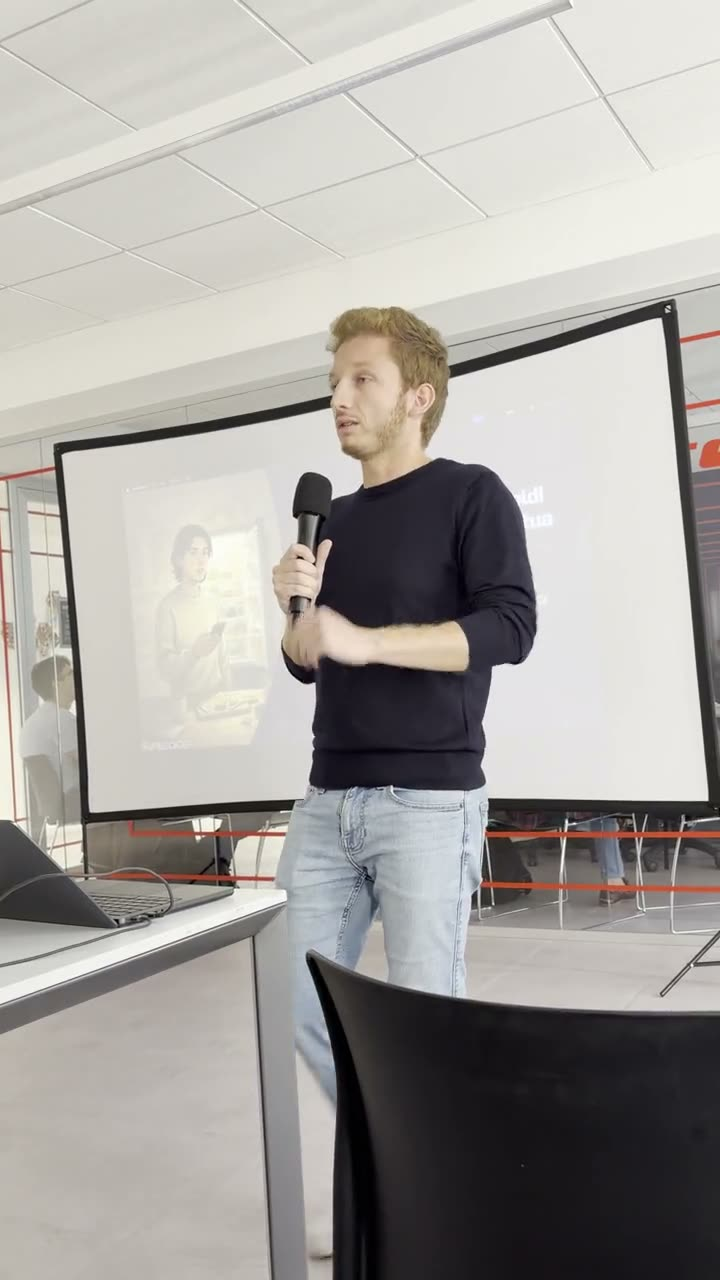
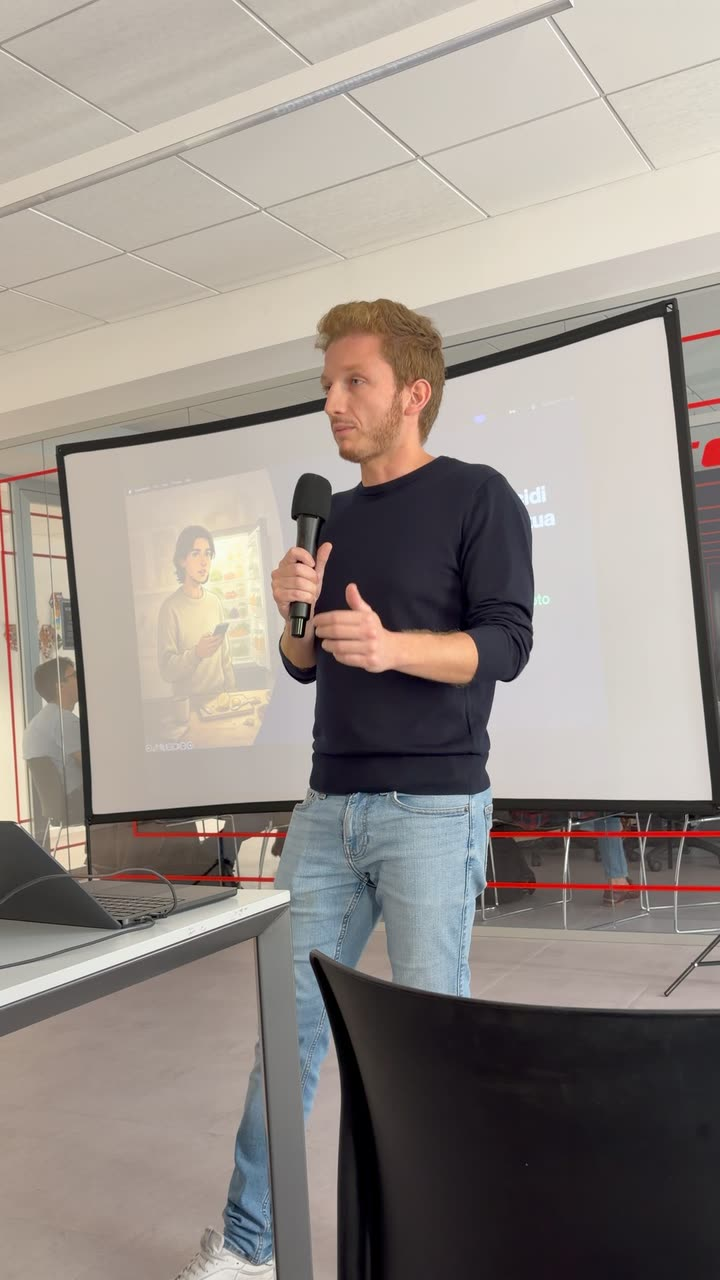
Smoother scrolling on touch devices and DevFest poster for the talk video

diff --git a/assets/js/about.js b/assets/js/about.js
@@ -15,6 +15,9 @@
 	const reduce = window.matchMedia('(prefers-reduced-motion: reduce)').matches;
 	const narrow = window.matchMedia('(max-width: 860px)');
 	const fine = window.matchMedia('(hover: hover) and (pointer: fine)').matches;
+	// Wheel scrolling is smoothed by the script on desktop; everywhere else the browser scrolls natively.
+	const smoothWheel = !!(window.Lenis && fine && !reduce);
+	if (!smoothWheel) root.classList.add('native-scroll');
 	const UI = window.AboutUI, CITIES = window.AboutCities;
 	const $ = (s, c) => (c || document).querySelector(s);
 	const $$ = (s, c) => Array.from((c || document).querySelectorAll(s));
@@ -683,6 +686,72 @@
 		const pose = { x: 0, y: 0, s: 0.001, rx: 0, ry: 0, rz: 0 };
 		let from = null, off = null, tr = 1, dur = 0.95, cur = null, started = false;
 		let e = 0, W = 0, H = 0;
+
+		/* --- where the canvas sits ---
+		   With native scrolling (touch) the browser moves the page on its own, a few frames ahead of what the script
+		   sees: a canvas pinned to the window showed the phone trailing behind the page and catching up in jerks.
+		   There the canvas is not moved by the script while you scroll. It is a sticky box inside a "rail" laid on
+		   the page, and the rail is shaped so that the browser itself moves the canvas exactly as it moves the
+		   phone's placeholder: along with the page where the placeholder scrolls, held in place where the
+		   placeholder is held (it is sticky too, or its section is pinned). The script only re-centres the canvas
+		   on the window from time to time, redrawing the phone at the matching spot, so nothing is seen to move.
+		   The canvas is taller than the window by PAD above and below, to cover what the script has not caught up
+		   with yet. With the smoothed wheel the script moves the page itself, and the canvas stays pinned to the
+		   window as it always was. */
+		const follows = !smoothWheel, PADF = follows ? 0.25 : 0;
+		let HC = 0, PAD = 0, cTop = 0, placed = '', viewKey = '';
+		let rail = null, held = null, miss = 0, pinned = false, seenEl = null, seenTop = 0, seenY = 0;
+		if (follows) {
+			rail = document.createElement('div'); rail.className = 'gl-rail';
+			canvas.parentNode.insertBefore(rail, canvas); rail.appendChild(canvas);
+			canvas.style.height = (100 + 200 * PADF) + 'vh';   // vh, not %: it must not change when a phone's toolbar hides
+		}
+		// A sticky placeholder is held in place while the page is between two positions: found by asking the layout
+		// where the placeholder sits with nothing holding it, and how far it can be pushed.
+		function heldRange(el, sy) {
+			const cs = getComputedStyle(el), st = parseFloat(cs.top);
+			if (cs.position !== 'sticky' || isNaN(st)) return null;
+			const keep = el.style.top;
+			el.style.top = '-99999px'; const first = el.getBoundingClientRect().top + sy;
+			el.style.top = '99999px'; const last = el.getBoundingClientRect().top + sy;
+			el.style.top = keep;
+			return { st, a: first - st, b: Math.max(first, last) - st };
+		}
+		function place(now) {
+			if (follows) {
+				// the page's position as the rectangles see it (on a phone window.scrollY can differ while its toolbar moves)
+				const sy = -root.getBoundingClientRect().top, docH = document.body.offsetHeight;
+				let a = 0, b = 0;   // the placeholder is held while the page is between a and b; a = b: it only scrolls
+				if (cur) {
+					const top = cur.getBoundingClientRect().top;
+					if (!held || held.el !== cur || held.docH !== docH || held.w !== W || (miss > 2 && now - held.at > 400)) {
+						held = { el: cur, docH, w: W, at: now, range: heldRange(cur, sy) };
+						miss = 0; pinned = false; seenEl = null;
+					}
+					if (held.range) {
+						a = held.range.a; b = held.range.b;
+						// not where the range says (something above changed height, a reveal is running): measure again soon
+						miss = Math.abs(top - (clamp(sy, a, b) + held.range.st - sy)) > 2 ? miss + 1 : 0;
+					} else {
+						// not sticky itself, but its section may be pinned: two frames tell
+						if (seenEl === cur && Math.abs(sy - seenY) > 0.5) pinned = Math.abs(top - seenTop) < Math.abs(sy - seenY) * 0.5;
+						seenEl = cur; seenTop = top; seenY = sy;
+						if (pinned) { a = -Infinity; b = Infinity; }
+					}
+				}
+				// The canvas goes PAD above the window now, and from there moves as the placeholder does.
+				const c = Math.round(sy - PAD - clamp(sy, a, b));
+				// never past the end of the page, or the canvas itself would make the page longer
+				const end = Math.round(Math.min(b + c, docH - HC)), top = Math.round(Math.min(a === -Infinity ? -PAD : a + c, end));
+				const key = top + ' ' + end + ' ' + c;
+				if (key !== placed) { placed = key; rail.style.top = top + 'px'; rail.style.height = (end - top + HC) + 'px'; canvas.style.top = c + 'px'; }
+				cTop = canvas.getBoundingClientRect().top;
+			}
+			// The camera keeps looking at the middle of the window, wherever the canvas is around it.
+			const vk = W + ' ' + H + ' ' + HC + ' ' + cTop;
+			if (vk !== viewKey) { viewKey = vk; camera.setViewOffset(W, H, 0, cTop, W, HC); }
+		}
+
 		const glowTo = new THREE.Color(0x2dd4a7);
 		const ptr = { x: 0, y: 0, tx: 0, ty: 0, cx: -1, cy: -1 };
 		const spin = { x: 0, y: 0 };
@@ -693,7 +762,7 @@
 		const ray = new THREE.Raycaster(), ndc = new THREE.Vector2();
 		function hit(cx, cy) {
 			if (!W || !cur) return null;
-			ndc.set(cx / W * 2 - 1, -(cy / H) * 2 + 1);
+			ndc.set(cx / W * 2 - 1, -((cy - cTop) / HC) * 2 + 1);
 			ray.setFromCamera(ndc, camera);
 			const s = e < 0.05 ? ray.intersectObject(scr, false)[0] : null;
 			if (s && s.uv) return { screen: true, x: s.uv.x * UI.W, y: (1 - s.uv.y) * UI.H };
@@ -748,11 +817,11 @@
 		}, true);
 
 		function resize() {
-			const w = canvas.clientWidth, h = canvas.clientHeight;
-			if (!w || !h || (w === W && h === H)) return;
-			W = w; H = h;
-			renderer.setSize(w, h, false);
-			camera.aspect = w / h; camera.updateProjectionMatrix();
+			const w = canvas.clientWidth, hc = canvas.clientHeight;
+			if (!w || !hc || (w === W && hc === HC)) return;
+			W = w; HC = hc; H = hc / (1 + 2 * PADF); PAD = H * PADF;   // H: the window; HC: the canvas, with its margins
+			renderer.setSize(w, hc, false);
+			placed = ''; viewKey = '';
 		}
 		function vis(el) {
 			const r = el.getBoundingClientRect();
@@ -798,6 +867,7 @@
 				}
 				if (reduce) tr = 1;
 			}
+			place(now);
 			const target = cur ? slotPose(cur) : off;
 			if (target) {
 				if (tr < 1) {
@@ -950,7 +1020,7 @@
 
 	// Smooth wheel scrolling on desktop; touch keeps the native scroll.
 	let lenis = null;
-	if (window.Lenis && fine && !reduce) {
+	if (smoothWheel) {
 		lenis = new Lenis({ lerp: 0.12 });
 		if (window.gsap && window.ScrollTrigger) {
 			lenis.on('scroll', ScrollTrigger.update);
@@ -1057,7 +1127,8 @@
 			peek.style.transform = 'translate3d(' + pk.x.toFixed(1) + 'px,' + pk.y.toFixed(1) + 'px,0) rotate(' + clamp((tx - pk.x) * 0.08, -8, 8).toFixed(2) + 'deg)';
 		}
 		if (reduce) return;
-		if (heroCopy && y < vh * 1.3) {
+		// With native scrolling the script runs behind the page and this drift came in jumps: there CSS does it (see .hero-copy).
+		if (heroCopy && smoothWheel && y < vh * 1.3) {
 			heroCopy.style.transform = 'translate3d(0,' + (y * -0.16).toFixed(1) + 'px,0)';
 			heroCopy.style.opacity = clamp(1 - y / (vh * 0.8)).toFixed(3);
 		}

diff --git a/about.html b/about.html
@@ -25,7 +25,7 @@
 	<link rel="preconnect" href="https://fonts.googleapis.com">
 	<link rel="preconnect" href="https://fonts.gstatic.com" crossorigin>
 	<link rel="stylesheet" href="https://fonts.googleapis.com/css2?family=Instrument+Serif:ital@0;1&family=JetBrains+Mono:wght@400;500;700&family=Roboto+Flex:opsz,wdth,wght@8..144,75..125,300..900&display=swap">
-	<link rel="stylesheet" href="assets/css/about.css?v=3">
+	<link rel="stylesheet" href="assets/css/about.css?v=4">
 	<noscript><style>.slot .fallback{visibility:visible}</style></noscript>
 	<script>try{if(localStorage.getItem("sm-about-lang")==="it"){document.documentElement.setAttribute("data-lang","it");document.documentElement.lang="it";}}catch(e){}</script>
 </head>
@@ -387,7 +387,7 @@
 			</article>
 
 			<article class="talk flip wrap">
-				<div class="slot" data-screen="devfest" data-rx="3" data-ry="18" data-rz="-2" data-glow="#2dd4a7"><img class="fallback" src="images/about/devfest-poster.jpg" alt="Salvatore Matrisciano speaking at DevFest Milano 2026" loading="lazy"><p class="tap"><span class="k-tap"><span class="lang-it">Tocca i punti verdi sullo schermo</span><span class="lang-en">Tap the green dots on the screen</span></span><span class="k-hold"><span class="lang-it">Tieni premute le frecce per guidare</span><span class="lang-en">Hold the arrows to drive</span></span></p></div>
+				<div class="slot" data-screen="devfest" data-rx="3" data-ry="18" data-rz="-2" data-glow="#2dd4a7"><img class="fallback" src="images/about/devfest-poster.jpg?v=2" alt="Salvatore Matrisciano speaking at DevFest Milano 2026" loading="lazy"><p class="tap"><span class="k-tap"><span class="lang-it">Tocca i punti verdi sullo schermo</span><span class="lang-en">Tap the green dots on the screen</span></span><span class="k-hold"><span class="lang-it">Tieni premute le frecce per guidare</span><span class="lang-en">Hold the arrows to drive</span></span></p></div>
 				<div class="talk-copy rv">
 					<p class="when">2026 · Milano</p>
 					<h3>AI On-Device: cooking from your fridge with Gemini Nano, MobileCLIP and Gemma</h3>
@@ -503,7 +503,7 @@
 
 	<div class="modal" hidden>
 		<div class="modal-box">
-			<video controls playsinline preload="none" poster="images/about/devfest-poster.jpg" data-src="videos/about/devfest-talk.mp4"></video>
+			<video controls playsinline preload="none" poster="images/about/devfest-poster.jpg?v=2" data-src="videos/about/devfest-talk.mp4"></video>
 			<button class="modal-x" type="button" aria-label="Chiudi">×</button>
 		</div>
 	</div>
@@ -518,8 +518,8 @@
 	<script src="https://cdnjs.cloudflare.com/ajax/libs/gsap/3.12.5/ScrollTrigger.min.js"></script>
 	<script src="https://cdn.jsdelivr.net/npm/lenis@1.1.13/dist/lenis.min.js"></script>
 	<script src="assets/js/about-ui.js"></script>
-	<script src="assets/js/about-apps.js?v=3"></script>
-	<script src="assets/js/about-cities.js?v=3"></script>
-	<script src="assets/js/about.js?v=3"></script>
+	<script src="assets/js/about-apps.js?v=4"></script>
+	<script src="assets/js/about-cities.js?v=4"></script>
+	<script src="assets/js/about.js?v=4"></script>
 </body>
 </html>

diff --git a/assets/css/about.css b/assets/css/about.css
@@ -165,6 +165,9 @@ h1 em, h2 em, .tagline em {
 	display: none;
 }
 html.gl #gl { display: block; }
+/* Touch devices: the canvas is a sticky box inside a rail laid on the page (see "where the canvas sits" in about.js). */
+.gl-rail { position: absolute; left: 0; top: 0; width: 100%; z-index: 20; pointer-events: none; }
+.gl-rail #gl { position: sticky; inset: auto; top: 0; }
 
 .progress { position: fixed; inset: 0 0 auto 0; height: 2px; z-index: 40; }
 .progress i { display: block; height: 100%; background: var(--grad); transform-origin: left; transform: scaleX(0); }
@@ -406,6 +409,18 @@ html.no-gl .slot .fallback { visibility: visible; }
 	padding: 84px max(var(--gut), env(safe-area-inset-right, 0px)) 40px max(var(--gut), env(safe-area-inset-left, 0px));
 }
 .hero-copy { display: grid; gap: clamp(1rem, 2.4vh, 1.7rem); justify-items: start; min-width: 0; }
+/* The hero text drifts up a little faster than the page and fades. Where the browser scrolls natively (touch) the
+   script cannot keep up with the page, so the browser itself ties the effect to the scroll position, where it can. */
+@supports (animation-timeline: scroll()) {
+	@media (prefers-reduced-motion: no-preference) {
+		html.native-scroll .hero-copy { animation: hero-out linear both; animation-timeline: scroll(root block); animation-range: 0px 130vh; }
+	}
+}
+@keyframes hero-out {
+	0% { transform: translate3d(0, 0, 0); opacity: 1; }
+	61.5% { opacity: 0; }
+	100% { transform: translate3d(0, -20.8vh, 0); opacity: 0; }
+}
 .hero-copy > * { animation: rise 0.9s cubic-bezier(0.2, 0.7, 0.2, 1) both; }
 .hero-copy > :nth-child(2) { animation-delay: 0.08s; }
 .hero-copy > :nth-child(3) { animation-delay: 0.18s; }

diff --git a/assets/js/about-apps.js b/assets/js/about-apps.js
@@ -1132,7 +1132,7 @@
 	apps.devfest = { start: 'video', order: ['video'], auto: false, screens: {
 		video(k) {
 			k.fill('#0b0d12');
-			k.img('images/about/devfest-poster.jpg', 0, 0, W, H, 0, { ph: '#0b0d12' });
+			k.img('images/about/devfest-poster.jpg?v=2', 0, 0, W, H, 0, { ph: '#0b0d12' });
 			k.hot(36, H - 152, W - 72, 78, { modal: 'devfest' });
 			return { live(q, env) {
 				const x = q.x, v = env.video;
